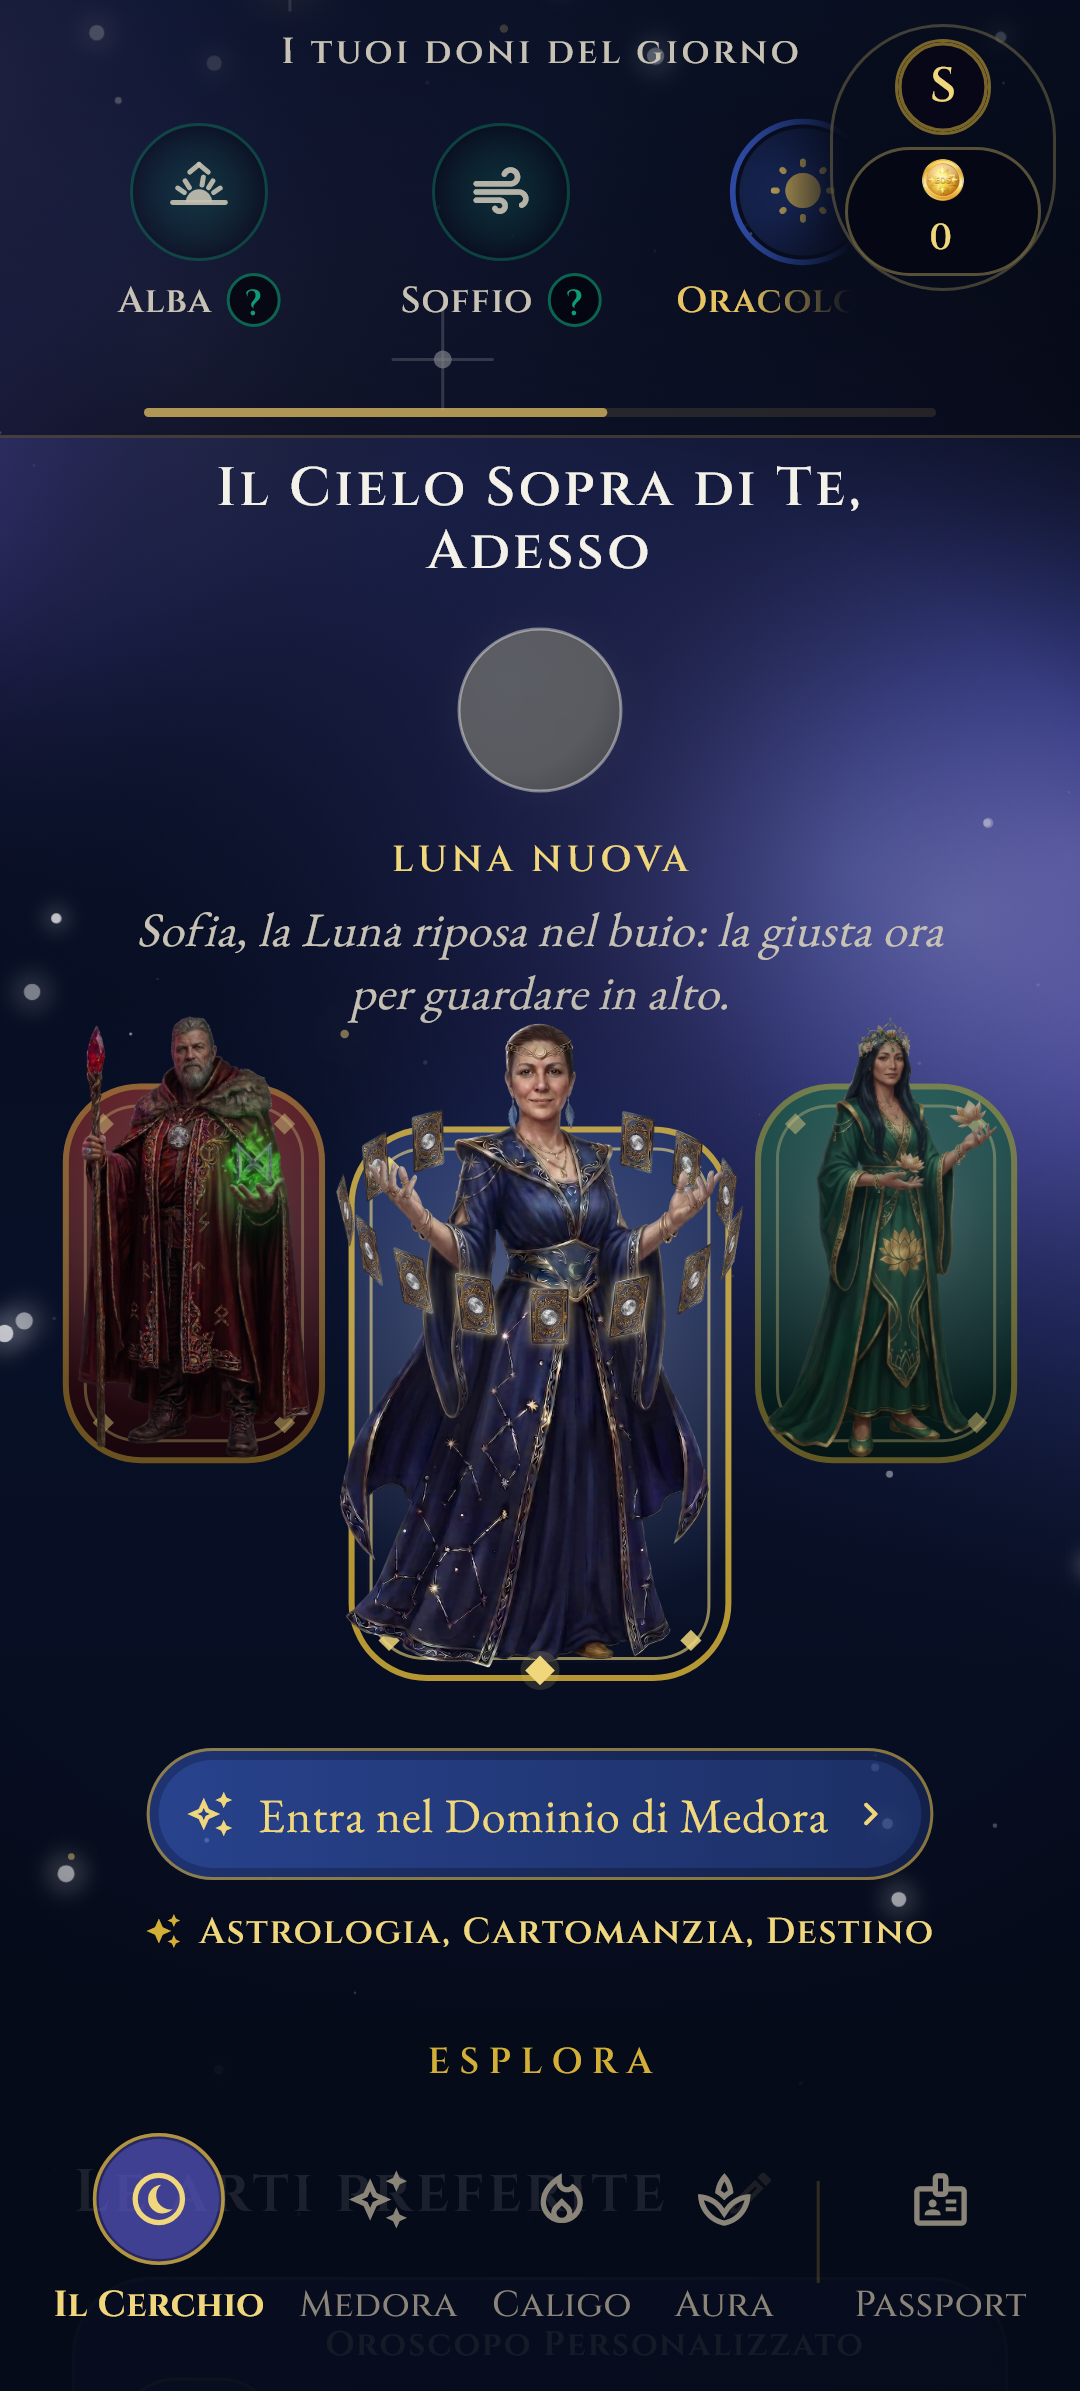
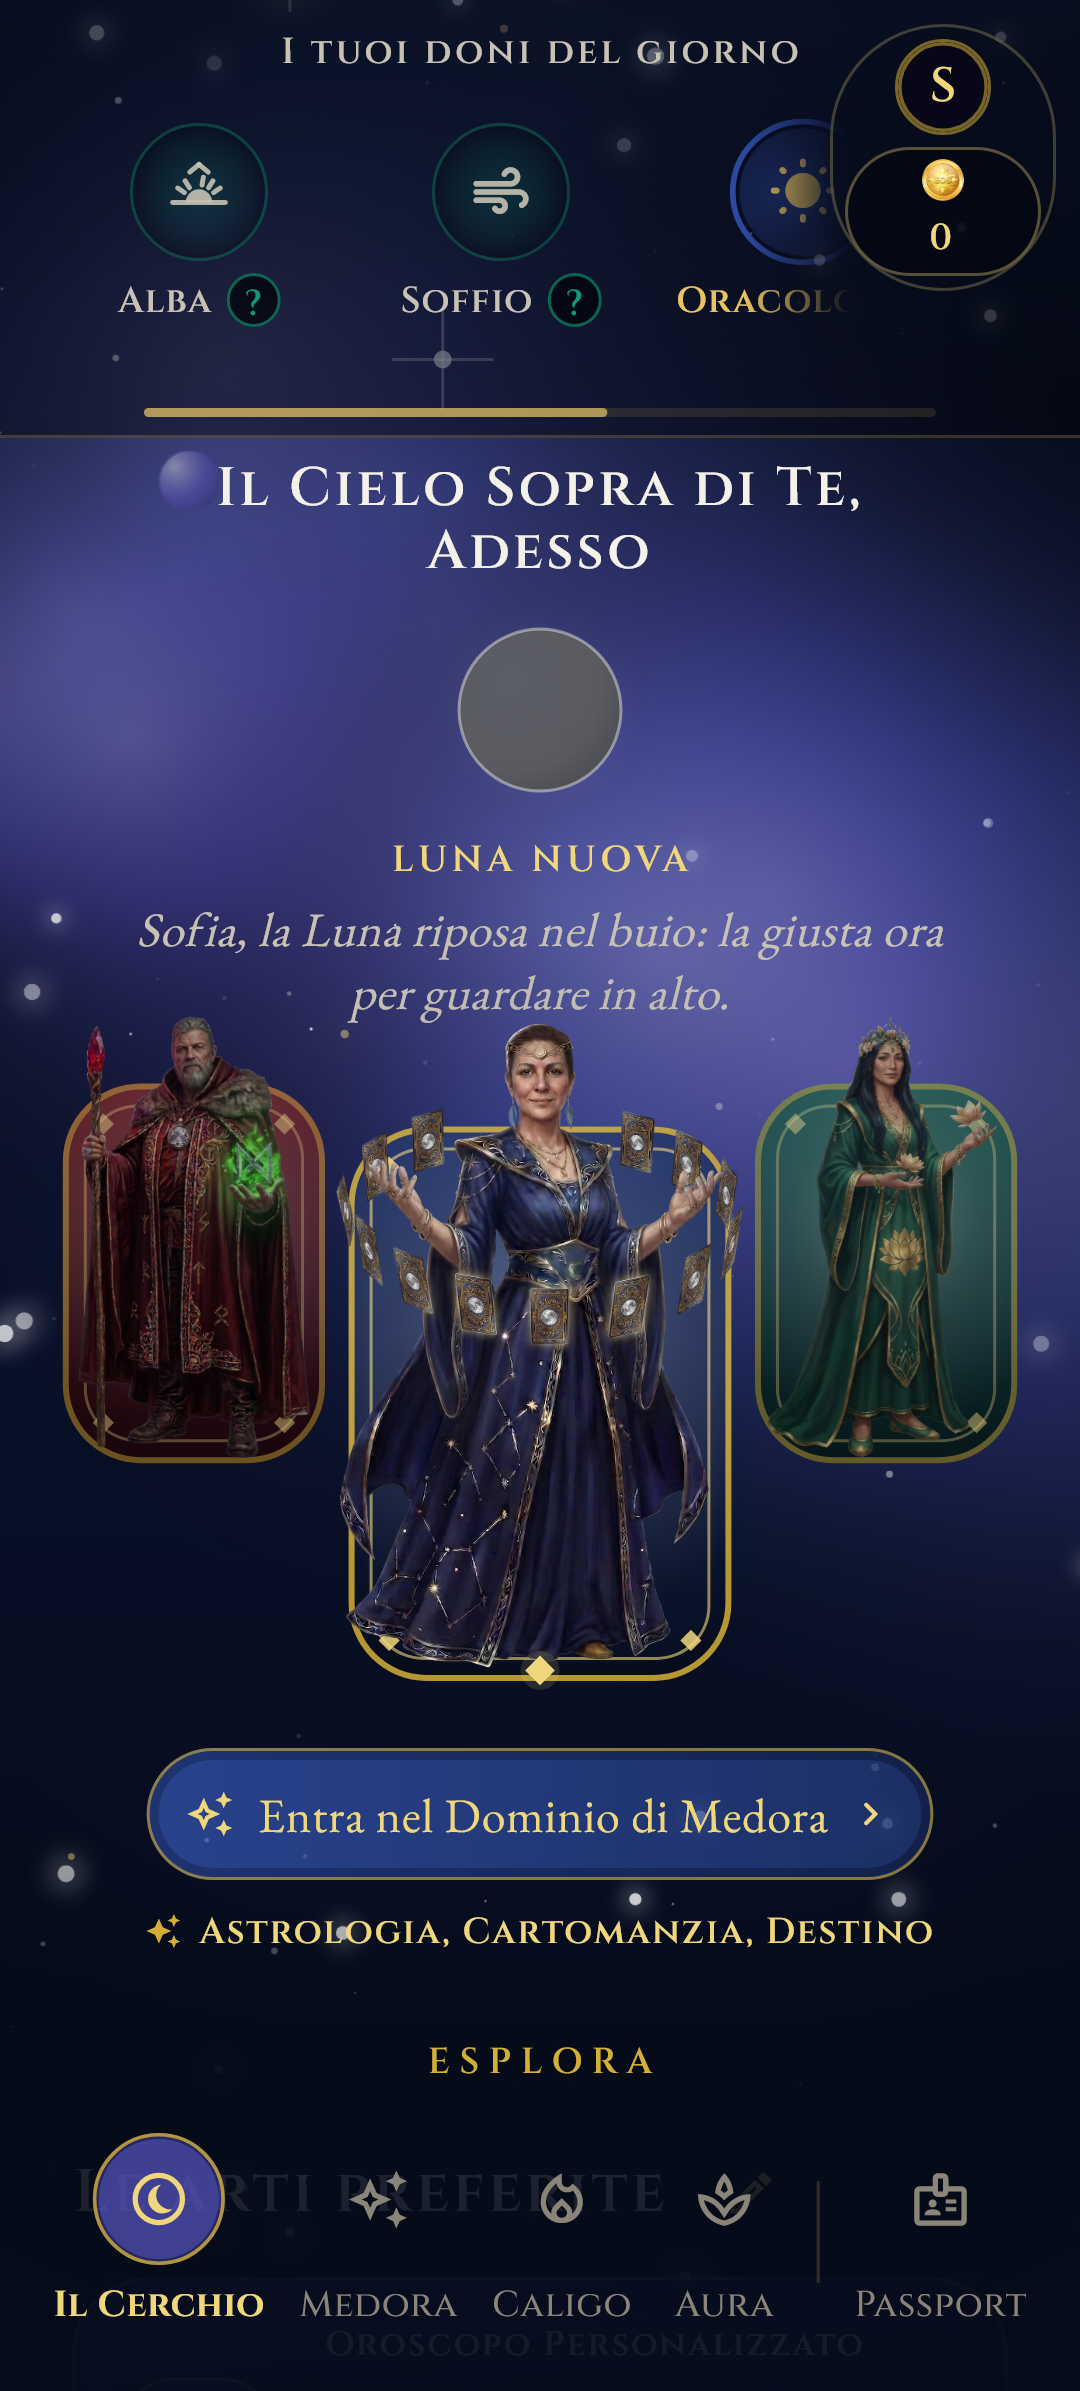
AM.02: le scorte avevano diluito il cielo, il conto degli elementi ora segue l'area del telo

diff --git a/lib/design_system/components/cosmos_background.dart b/lib/design_system/components/cosmos_background.dart
@@ -375,6 +375,27 @@ class _Star {
 /// muove: se l'immagine di un piano venisse composta con l'offset di un
 /// altro, la profondita' si appiattirebbe senza che nessun pixel gridasse.
 /// Vivono qui perche' una prova possa leggerli e verificarli.
+/// **QUANTI ELEMENTI SU UN TELO CON LA SCORTA, ordine AM voce 02.**
+///
+/// Le scorte di AJ.02 hanno allargato i teli perche' il bordo non entrasse
+/// piu' nell'inquadratura, e il conto degli elementi e' rimasto quello di
+/// prima: dipingere le stesse stelle su un telo piu' grande vuol dire
+/// diluirle, e a schermo se ne vedono meno. Misurato su 360x797: del piano
+/// di fondo restava a schermo il 51 per cento delle stelle, del piano
+/// medio il 37 per cento delle nebulose. E' il livello che Mauro vede
+/// mancare sulla 2180.
+///
+/// Qui il conto segue l'AREA: la densita' a schermo torna quella di prima
+/// delle scorte, e i bordi restano coperti perche' il telo non si tocca.
+/// Costa piu' elementi da dipingere UNA volta nella cache, mai nel cammino
+/// per fotogramma.
+int quantiSulTelo(int base, Size telo, Size schermo) {
+  final areaSchermo = schermo.width * schermo.height;
+  if (areaSchermo <= 0) return base;
+  final rapporto = (telo.width * telo.height) / areaSchermo;
+  return (base * rapporto).round();
+}
+
 class ProfonditaDeiPiani {
   const ProfonditaDeiPiani._();
 
@@ -702,9 +723,11 @@ class _CosmosPainter extends CustomPainter {
     cielo.medio = vuotoIlMedio
         ? null
         : _dipingiUnaVolta(teloMedio, densita / 2, (tela) {
-            if (_nebulaClusters > 0) _paintNebula(tela, teloMedio, fermo, 0);
+            if (_nebulaClusters > 0) {
+              _paintNebula(tela, teloMedio, fermo, 0, margine: margineMedio);
+            }
             if (showPlanets && _planetCount > 0) {
-              _paintPlanets(tela, teloMedio, fermo);
+              _paintPlanets(tela, teloMedio, fermo, margine: margineMedio);
             }
           });
 
@@ -714,7 +737,9 @@ class _CosmosPainter extends CustomPainter {
     cielo.lontano = _dustStars == 0
         ? null
         : _dipingiUnaVolta(teloLontano, densita, (tela) {
-            _paintStarDust(tela, teloLontano, fermo, 0);
+            _paintStarDust(tela, teloLontano, fermo, 0,
+                quante: quantiSulTelo(
+                    _dustStars, teloLontano, size));
           });
 
     // PIANO DI FONDO: le stelle di campo, le costellazioni e GLI ALONI delle
@@ -731,7 +756,9 @@ class _CosmosPainter extends CustomPainter {
     // L'alone non pulsa piu': vive al ventidue per cento di opacita', e la
     // pulsazione la porta il nucleo che gli sta sopra.
     cielo.fondo = _dipingiUnaVolta(teloFondo, densita, (tela) {
-      _paintFieldStars(tela, teloFondo, fermo, 0);
+      _paintFieldStars(tela, teloFondo, fermo, 0,
+          quante: quantiSulTelo(
+              _fieldStars, teloFondo, size));
       if (showZodiac) _paintZodiac(tela, teloFondo, fermo, 0);
       _aloniDelleProtagoniste(tela, teloFondo, fermo);
     });
@@ -923,10 +950,11 @@ class _CosmosPainter extends CustomPainter {
 
   // --- Polvere stellare fine sul piano piu' lontano ---
 
-  void _paintStarDust(Canvas canvas, Size size, Offset off, double t) {
+  void _paintStarDust(Canvas canvas, Size size, Offset off, double t,
+      {int? quante}) {
     final rng = math.Random(91 + seed * 7919);
     final paint = Paint()..style = PaintingStyle.fill;
-    for (var i = 0; i < _dustStars; i++) {
+    for (var i = 0; i < (quante ?? _dustStars); i++) {
       final x = rng.nextDouble();
       final y = rng.nextDouble();
       if (_nellaZonaFranca(x, y, size, margineLontano)) continue;
@@ -950,14 +978,20 @@ class _CosmosPainter extends CustomPainter {
 
   // --- Pianeti soffusi, dischi tenui con luce radente, per dare scala ---
 
-  void _paintPlanets(Canvas canvas, Size size, Offset off) {
+  void _paintPlanets(Canvas canvas, Size size, Offset off,
+      {double margine = 0}) {
     const spots = [
       (Offset(0.16, 0.2), 10.0),
       (Offset(0.82, 0.3), 7.0),
     ];
+    // Stessa mappatura delle nebulose, e per la stessa ragione.
+    final visibile =
+        Size(size.width - 2 * margine, size.height - 2 * margine);
     for (var i = 0; i < _planetCount && i < spots.length; i++) {
       final (pos, r) = spots[i];
-      final center = Offset(pos.dx * size.width, pos.dy * size.height) + off;
+      final center = Offset(margine + pos.dx * visibile.width,
+              margine + pos.dy * visibile.height) +
+          off;
       // Alone.
       canvas.drawCircle(
         center,
@@ -989,9 +1023,10 @@ class _CosmosPainter extends CustomPainter {
 
   // --- Stelle di fondo, pulsazione dolce ---
 
-  void _paintFieldStars(Canvas canvas, Size size, Offset off, double t) {
+  void _paintFieldStars(Canvas canvas, Size size, Offset off, double t,
+      {int? quante}) {
     final rng = math.Random(7 + seed * 7919);
-    final stars = List<_Star>.generate(_fieldStars, (_) {
+    final stars = List<_Star>.generate(quante ?? _fieldStars, (_) {
       // Intervallo di dimensioni piu' ampio: da minute a decise, per profondita'.
       final rr = rng.nextDouble();
       return _Star(
@@ -1091,7 +1126,8 @@ class _CosmosPainter extends CustomPainter {
 
   // --- Nebulose soffuse e pittoriche, piano intermedio ---
 
-  void _paintNebula(Canvas canvas, Size size, Offset off, double t) {
+  void _paintNebula(Canvas canvas, Size size, Offset off, double t,
+      {double margine = 0}) {
     const centers = [
       Offset(0.22, 0.22),
       Offset(0.80, 0.46),
@@ -1100,9 +1136,16 @@ class _CosmosPainter extends CustomPainter {
     final drift = _animate ? math.sin(2 * math.pi * t) * 12 : 0.0;
     final rng = math.Random(53 + seed * 7919);
 
-    for (var i = 0; i < _nebulaClusters; i++) {
-      final base = Offset(
-              centers[i].dx * size.width, centers[i].dy * size.height) +
+    // **I CENTRI STANNO NELL'AREA VISIBILE, ordine AM voce 02.** Le tre
+    // posizioni sono curate a mano su coordinate normalizzate, e con la
+    // scorta di AJ.02 il telo e' 2,73 volte lo schermo: distribuite su tutto
+    // il telo, a video ne restava circa una. Qui la coordinata normalizzata
+    // mappa la finestra visibile, e le tre nebulose tornano dov'erano.
+    final visibile =
+        Size(size.width - 2 * margine, size.height - 2 * margine);
+    for (var i = 0; i < _nebulaClusters && i < centers.length; i++) {
+      final base = Offset(margine + centers[i].dx * visibile.width,
+              margine + centers[i].dy * visibile.height) +
           off +
           Offset(drift, -drift);
       // Ogni nebulosa e' un grappolo di macchie morbide sovrapposte con un

diff --git a/test/il_cielo_ha_i_suoi_livelli_test.dart b/test/il_cielo_ha_i_suoi_livelli_test.dart
@@ -1,0 +1,92 @@
+import 'package:esoteric_circle/core/motion/parallax_controller.dart';
+import 'package:esoteric_circle/design_system/components/cosmos_background.dart';
+import 'package:flutter/material.dart';
+import 'package:flutter_test/flutter_test.dart';
+
+/// IL CIELO HA I SUOI LIVELLI. Ordine AM voce 02.
+///
+/// **La premessa dell'ordine era imprecisa e si dichiara**: il confronto
+/// doveva essere con la testa `e5b993f`, "prima delle cure AJ", ma AJ.02
+/// (`cdfe0c8`) e' suo ANTENATO e li' le scorte c'erano gia'. Il confronto
+/// vero e' col padre di AJ.02, dove i teli erano grandi quanto lo schermo.
+///
+/// **Cosa si dipinge, enumerato**: polvere sul piano lontano, stelle di
+/// campo con costellazioni e aloni sul fondo, nebulose e pianeti sul medio,
+/// quattordici particelle vive sul vicino, piu' le stelle cadenti. Nessun
+/// pezzo e' sparito rispetto a prima delle cure AJ: quello che era sparito
+/// e' la DENSITA' a schermo.
+///
+/// **La misura che ha nominato il difetto.** Le scorte di AJ.02 hanno
+/// allargato i teli e il conto degli elementi e' rimasto quello di prima:
+/// su 360x797 il telo del fondo e' 1,95 volte lo schermo e quello del medio
+/// 2,73 volte, quindi a schermo restava il 51 per cento delle stelle di
+/// campo e il 37 per cento delle nebulose. E' il livello che Mauro vede
+/// mancare sulla 2180.
+///
+/// La cura, per i due casi diversi: le stelle, che nascono a caso, si
+/// contano sull'AREA del telo, cosi' coprono anche la scorta e a schermo
+/// tornano quante erano; le nebulose e i pianeti, che hanno posizioni curate
+/// a mano, restano tre e due e i loro centri mappano la finestra VISIBILE
+/// invece di tutto il telo.
+void main() {
+  const schermo = Size(360, 797);
+
+  test('le stelle si contano sull\'area del telo, non a numero fisso', () {
+    final margineFondo = _CosmoPerLaProva.scorta(0.16);
+    final teloFondo = Size(schermo.width + 2 * margineFondo,
+        schermo.height + 2 * margineFondo);
+    final rapporto =
+        (teloFondo.width * teloFondo.height) / (schermo.width * schermo.height);
+    const base = 140;
+    final scalate = quantiSulTelo(base, teloFondo, schermo);
+    // ignore: avoid_print
+    print('ORDINE AM VOCE 02: telo del fondo ${rapporto.toStringAsFixed(2)} '
+        'volte lo schermo, stelle da $base a $scalate');
+    expect(rapporto, greaterThan(1.5),
+        reason: 'la scorta del fondo e\' sparita: senza di lei il bordo '
+            'torna a entrare nell\'inquadratura, ed e\' il difetto di AJ.02');
+    // La densita' a schermo e' quella di prima: base per l'area, non base.
+    expect(scalate / rapporto, closeTo(base.toDouble(), 1.0),
+        reason: 'sul telo grande si dipingono $scalate stelle: a schermo se '
+            'ne vedono ${(scalate / rapporto).round()} invece di $base, e '
+            'manca il livello di stelle che Mauro ha visto sparire');
+    // La porta non inventa niente quando il telo e' lo schermo.
+    expect(quantiSulTelo(base, schermo, schermo), base);
+  });
+
+  test('i rapporti di corsa fra i piani fanno la profondita\'', () {
+    final parallasse = ParallaxController();
+    parallasse.inclinaPerLaProva(1, 0);
+    final piani = OffsetDeiPiani.da(parallasse, conDeriva: false, t: 0);
+    final corse = {
+      'polvere': piani.polvere.dx,
+      'fondo': piani.fondo.dx,
+      'medio': piani.medio.dx,
+      'vicino': piani.vicino.dx,
+    };
+    // ignore: avoid_print
+    print('ORDINE AM VOCE 02: corse a tilt saturo $corse');
+    // **TRE PIANI CHE VIAGGIANO INSIEME NON FANNO PROFONDITA'**: fra un
+    // piano e il successivo ci vuole uno stacco vero, e questi sono i
+    // rapporti che il cosmo ha sempre avuto.
+    expect(corse['fondo']! / corse['polvere']!, greaterThan(4),
+        reason: 'il fondo e la polvere corrono quasi insieme');
+    expect(corse['medio']! / corse['fondo']!, greaterThan(1.25),
+        reason: 'il medio e il fondo corrono quasi insieme');
+    expect(corse['vicino']! / corse['medio']!, greaterThan(1.5),
+        reason: 'il vicino e il medio corrono quasi insieme');
+    expect(corse['vicino']! / corse['fondo']!, closeTo(2.07, 0.05),
+        reason: 'il rapporto fra il piano piu' ' reattivo e quello di fondo '
+            'e\' la profondita\' percepita, ed era 2,07');
+  });
+}
+
+/// La stessa formula della scorta, per non copiarne una seconda.
+class _CosmoPerLaProva {
+  static double scorta(double depth, {double fattore = 1}) =>
+      ParallaxController.tiltRangeDefault *
+          ParallaxController.profonditaEfficace(depth) *
+          fattore +
+      3 * 40 * depth +
+      1;
+}

diff --git a/docs/ordini/ORDINE_AM_MANIFESTO.md b/docs/ordini/ORDINE_AM_MANIFESTO.md
@@ -63,7 +63,23 @@ Mauro dalla console, e la voce AL.05 resta in attesa di quel passo.
   misura dopo la cura 1 su 40; guardia la_home_non_rallenta_al_ritorno con
   rosso provato, guardie del cielo tutte verdi; chiude il collaudo di Mauro
   sulla 2181)
-- **AM.02** La profondita' perduta e il livello che manca — APERTA
+- **AM.02** La profondita' perduta e il livello che manca — FERMATA IN ATTESA DI DECISIONE
+  (una premessa della voce era imprecisa e si dichiara: e5b993f non e' prima
+  delle cure AJ, AJ.02 e' suo antenato e le scorte c'erano gia'; il confronto
+  vero e' col padre di AJ.02, dove i teli erano grandi quanto lo schermo.
+  Enumerati i pezzi dipinti oggi, polvere, stelle di campo con costellazioni e
+  aloni, nebulose e pianeti, quattordici particelle vive e stelle cadenti:
+  NESSUN pezzo e' sparito, era sparita la DENSITA'. Misura: il telo del fondo
+  e' 1,95 volte lo schermo e quello del medio 2,73, e col conto degli elementi
+  rimasto fisso a schermo restava il 51 per cento delle stelle di campo e il
+  37 per cento delle nebulose. Cura in due modi diversi: le stelle, che
+  nascono a caso, si contano sull'AREA del telo, da 140 a 273, e a schermo
+  tornano 140; nebulose e pianeti, che hanno posizioni curate a mano, restano
+  tre e due e i centri mappano la finestra VISIBILE invece di tutto il telo.
+  Corse invariate, polvere 15, fondo 80, medio 105,5, vicino 165,5, rapporto
+  vicino su fondo 2,07. Guardia il_cielo_ha_i_suoi_livelli con rosso provato,
+  guardia dei bordi di AJ.02 verde senza toccarla, anteprima rigenerata e
+  guardata; chiude il collaudo di Mauro sulla 2181)
 - **AM.03** La capsula se ne va, e le testate restano pulite — APERTA
 - **AM.04** La barra sottile persistente in alto, casa unica — APERTA
 - **AM.05** Il manifesto, la suite, la build 2181 — APERTA
@@ -71,7 +87,7 @@ Mauro dalla console, e la voce AL.05 resta in attesa di quel passo.
 ## I marcatori, contati sulle righe
 
 VOCI_TOTALI: 5
-VOCI_APERTE: 4
+VOCI_APERTE: 3
 VOCI_CHIUSE: 0
 VOCI_FERMATE_SU_PREMESSA_FALSA: 0
-VOCI_FERMATE_IN_ATTESA_DI_DECISIONE: 1
+VOCI_FERMATE_IN_ATTESA_DI_DECISIONE: 2
